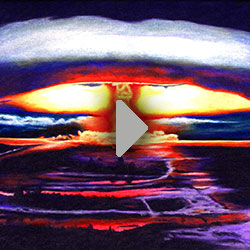
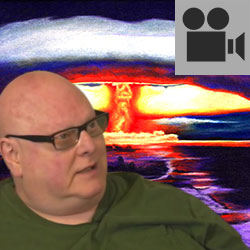
Changes to Rick gallery, home and about pages
Changed the icons for the video thumbnails. added a final slide to each
gallery with a link to the Rick Home page and to some of rick's cool
music links.
changed the welcome panel on the home page to a lighter grey to give me
more flexibility with text and link colors.
changed the text on the about page

diff --git a/rick/js/rick.js b/rick/js/rick.js
@@ -759,31 +759,28 @@ function twitterShare() {
     //Open the window.
 		window.open("https://twitter.com/intent/tweet?text=Please%20look%20at%20Joe%20Crosetto's%20art:&url=" + location.protocol+"//"+location.host+location.pathname + "&via=JosephCrosetto", "", "width=550,height=420,resizable=yes,left=" + leftPosition + ",top=" + topPosition + ",screenX=" + leftPosition + ",screenY=" + topPosition + ",toolbar=no,menubar=no,scrollbars=no,location=no,directories=no");
 }
-function pinterestShare() {
-	var nextImageID = "image" + curImageNum;
-	var nextImage = document.getElementById(nextImageID);
-	var nextImagePath = nextImage.src; 
-	var nip = nextImagePath.split(/[\/\\\.\_]/);
-	var appFolder = nip[nip.length - 5];	
-	var imgFolder = nip[nip.length - 4];
-	//var nextImageName = nip[nip.length - 3];
-	//var nextImageExt = nip[nip.length - 1];
-
-	var imageFileName;
-	if(nextImage.nodeName.toLowerCase() === "video") {
-	//	if (nextImageExt === "mp4" || nextImageExt === "MP4") {	
-		imageFileName = "http://" + location.hostname + "/" + appFolder + "/" + imgFolder + "/" + vidSizingPrefix + vidSizingName + "a" + "_sm" + "." + vidSizingExt;
-	} else {
-		imageFileName = nextImagePath;
-	}
-
-	
-	
-    var leftPosition, topPosition;
-    //Allow for borders.
-    leftPosition = (window.screen.width / 2) - 385;
-    //Allow for title and status bars.
-    topPosition = (window.screen.height / 2) - 220;
-    //Open the window.
-		window.open("http://pinterest.com/pin/create/button/?url=" + location.protocol+"//"+location.host+location.pathname + "&media=" + imageFileName + "&description=Please%20look%20at%20Joe%20Crosetto's%20art!", "", "width=550,height=420,resizable=yes,left=" + leftPosition + ",top=" + topPosition + ",screenX=" + leftPosition + ",screenY=" + topPosition + ",toolbar=no,menubar=no,scrollbars=no,location=no,directories=no");
-}
+//function pinterestShare() {
+//	var nextImageID = "image" + curImageNum;
+//	var nextImage = document.getElementById(nextImageID);
+//	var nextImagePath = nextImage.src; 
+//	var nip = nextImagePath.split(/[\/\\\.\_]/);
+//	var appFolder = nip[nip.length - 5];	
+//	var imgFolder = nip[nip.length - 4];
+//	
+//	var imageFileName;
+//	if(nextImage.nodeName.toLowerCase() === "video") {
+//		imageFileName = "http://" + location.hostname + "/" + appFolder + "/" + imgFolder + "/" + vidSizingPrefix + vidSizingName + "a" + "_sm" + "." + vidSizingExt;
+//	} else {
+//		imageFileName = nextImagePath;
+//	}
+//
+//	
+//	
+//    var leftPosition, topPosition;
+//    //Allow for borders.
+//    leftPosition = (window.screen.width / 2) - 385;
+//    //Allow for title and status bars.
+//    topPosition = (window.screen.height / 2) - 220;
+//    //Open the window.
+//		window.open("http://pinterest.com/pin/create/button/?url=" + location.protocol+"//"+location.host+location.pathname + "&media=" + imageFileName + "&description=Please%20look%20at%20Joe%20Crosetto's%20art!", "", "width=550,height=420,resizable=yes,left=" + leftPosition + ",top=" + topPosition + ",screenX=" + leftPosition + ",screenY=" + topPosition + ",toolbar=no,menubar=no,scrollbars=no,location=no,directories=no");
+//}

diff --git a/rick/css/rick.css b/rick/css/rick.css
@@ -133,10 +133,42 @@ cite {
 	text-align: center;
 	border-radius: 8px;	
 }
+/* detail text is the styles for the text loaded from the db that apears to the left or below the art image */
 .detail-text a {
-	color: white;
+	color: #ddd;
 }
 .detail-text {
+	margin-bottom: 1em;
+}
+.detail-text a:hover {
+	color: #0f6cdf;
+}
+/* a few special styles for the last page of ricks galleries */
+.rick-credit {
+	font-size: .9em;
+}
+.rick-credit ul {
+	list-style-type: square;
+}
+.rick-credit a {
+	padding: 0;
+}
+/*.rick-credit a:hover {
+	color: #0f6cdf;
+	background-color: rgba(255, 255, 255, 0.0);
+}*/
+/* detail-more-text is special styles for the last slide on a page that has links to social media, etc. */
+.detail-more-text a {
+	color: #0f6cdf;
+	padding: .5em;
+	border-radius: 5px;
+}
+.detail-more-text a:hover {
+	color: #eee;
+	background-color: #0f6cdf;
+}
+
+.detail-more-text {
 	margin-bottom: 1em;
 }
 .main-image .column {
@@ -215,14 +247,14 @@ div.row.divide-row {
 	margin-bottom: 0;
 }
 
-.social-icons-white {
+/*.social-icons-space {
 	margin-left: 2em;
-}
-.social-icons-white a {
+}*/
+/*.social-icons-white a {
 	color: white;
-}
-.social-icons-white a i {
-	padding: 0 1em 0 0 ;	
+}*/
+.social-icons-space a i {
+	padding: 0 .5em 0 .5em ;	
 }
 .social {
 	margin-top: .4em ;

diff --git a/css/aor.css b/css/aor.css
@@ -373,18 +373,37 @@ h5.rickhome_gallery_names {
 	color: #5e5e5e;
 }
 .aorhome-welcome {
+	background-color: #a7a99b;
+	background-image:url(../img/grey_background.jpg);
+
+	/*background-color: #7e827a;
+	background-image:url(../img/texture_grey.png);*/
+	padding: 0 1.5rem 0 1.5rem;
+/*	color: black;*/
+}
+.aorhome-welcome a {
+	color: #eee;
+/*	padding-left: 1em;
+	padding-right: 1em;
+	border-radius: 5px;*/
+}
+.aorhome-welcome a:hover {
+	/*background-color: #2461ad;*/
+	color: #0f6cdf;
+}
+.about-welcome {
 	background-color: #7e827a;
 	background-image:url(../img/texture_grey.png);
 	padding: 0 1.5rem 0 1.5rem;
 	color: black;
 }
-.aorhome-welcome a {
+.about-welcome a {
 	color: #ddd;
-	padding-left: 1em;
-	padding-right: 1em;
+	padding-left: .2em;
+	padding-right: .2em;
 	border-radius: 5px;
 }
-.aorhome-welcome a:hover {
+.about-welcome a:hover {
 	background-color: #2461ad;
 }
 

diff --git a/rick/body.php b/rick/body.php
@@ -125,6 +125,14 @@
 						</div>
 							
 							<?php } ?>
+							
+							
+					<!-- this is a final slide that thanks visitors and asks them to go to the rick home page -->
+						<?php $img_count ++; ?>
+						<div id="image-overlay-content<?php echo $img_count; ?>">
+						<img id="image<?php echo $img_count; ?>" data-interchange="[img/<?php echo FILENAME_PREFIX; ?><?php echo $img_count; ?>a_sm.jpg, small], [img/<?php echo FILENAME_PREFIX; ?><?php echo $img_count; ?>a_lg.jpg, medium]" alt="<?php echo ARTIST; ?>">
+						</div>	
+							
 						
 					</div>
 					<a href="#" id="zoom-minus"><i class="fa fa-search-minus fa-lg v-space-sm"></i></a>
@@ -242,17 +250,41 @@
 </div>
 <?php } ?>
 
-<!--
-<div id="text-overlay-content16" class="no-right-pad">
-					<h3 id="overlay-head16">Thanks for Visiting</h3>
-			    <div id="overlay-body16" class="detail-text"><a href="index.html"><i class="fa fa-th fa-lg"></i></a>&nbsp;&nbsp;See more of Rick's Art! <br>
+<?php $text_count ++; ?>
+<div id="text-overlay-content<?php echo $text_count; ?>" class="text-center">
+					<h5 id="overlay-head<?php echo $text_count; ?>" class="rick-font">But wait. There's more!</h5>
+			    <div id="overlay-body<?php echo $text_count; ?>" class="detail-text">
+					<div class="detail-more-text">
+
+					<p>Visit all seven of Rick's galleries. The next one is even better!</p>
+			    <h5><a href="index.php"><!--<i class="fa fa-th fa-lg"></i>--><span class="rick-font">Rick Therrio Galleries</span></a></h5> 
 					<i class="fa fa-share-alt fa-lg v-space-sm"></i>&nbsp;&nbsp;Share on social media<br>
-					<span class="social-icons-white">
+					<span class="social-icons-space">
 				<a class="fb-icon" href="#"><i class="fa fa-facebook fa-lg v-space-sm"></i></a>
 				<a class="twitter-icon" href="#"><i class="fa fa-twitter fa-lg v-space-sm"></i></a>
-				<a class="pinterest-icon" href="#"><i class="fa fa-pinterest-p fa-lg v-space-sm"></i></a> </span><br>		
-				</div>		
-</div> -->
+				<!--<a class="pinterest-icon" href="#"><i class="fa fa-pinterest-p fa-lg v-space-sm"></i></a>--> </span><br>
+				</div>
+				<div class=" detail-text rick-credit text-left">
+				Check out some of Rick's cool music projects:
+				<ul>
+					<li><a href="http://thefactoriesoflove.bandcamp.com/" target="_blank">Factories of Love</a></li>
+					<li><a href="http://kalejutandhismurdermen.bandcamp.com/" target="_blank">Kale Jut and the Murdermen</a></li>
+					<li><a href="https://www.facebook.com/hereinliestherub/?fref=ts" target="_blank">The Rub</a></li>
+				</ul>
+				Rick would like to thank some special people:
+				<ul>
+					<li>Dave Mueller at <a href="https://www.facebook.com/search/184404196644/local_search?surface=tyah" target="_blank">Paul Henry Gallery</a></li>
+					<li>Tony Lipka at <a href="http://greatcustomframing.com/" target="_blank">The Great Frame Up</a></li>
+					<li>Barbara Laing at Painted Light Photography & Framing Gallery</li>
+				</ul>	
+
+				</div>
+			</div>	
+</div>
+
+
+
+
 
       </div>
 		</div>
@@ -303,6 +335,12 @@
 <a href="#" class="tb" id="tb<?php echo $img_count; ?>"><img class="not-viewed" src="img/<?php echo FILENAME_PREFIX; ?><?php echo $img_count; ?>a_tb.jpg"></a>
 </div>
 <?php } ?>
+
+<!-- thank You Slide -->
+<?php $img_count ++; ?>
+<div class="column gallery">
+<a href="#" class="tb" id="tb<?php echo $img_count; ?>"><img class="not-viewed" src="img/<?php echo FILENAME_PREFIX; ?><?php echo $img_count; ?>a_tb.jpg"></a>
+</div>
 
 			</div> <!-- end of thumbnail gallery. Note, start of brown section below inside-->
 

diff --git a/about_body.php b/about_body.php
@@ -74,7 +74,7 @@
 			
 			<div class="row margin-zero main-image-more contact-main">
 	<div class="contact small-offset-1 small-10 end column">
-<h3 class="aor-font">About Us</h3>
+<h3 class="aor-font">About Us - Then</h3>
 <p><img src="img/about_aor.jpg" width="450" height="266" class="float-right">Lynn True and Joe Crosetto started the original Art-O-Rama Gallery 1989. It was located in an old bakery at 3039 Irving Park Rd in Chicago. We wanted to shake up the art establishment and surprisingly, we did. We invited our young artist friends to show their work. Most of us were all effectively shut out from the established River North galleries. We built walls, hung clip-on lights and made quite a presentable gallery space. Openings nights were packed with people and artwork. Word spread. A group of artists coalesced around the gallery and have become lifelong friends and collaborators.<br>&nbsp;<br>
 
 The original Art-O-Rama was like a super nova. It burnt bright but for only about 2 years. But don't fret because now we have opened a new, online version of the gallery, inspired by the same passion and craziness! Enjoy!</p><br>
@@ -171,14 +171,12 @@ The original Art-O-Rama was like a super nova. It burnt bright but for only abou
 	</div>
 
 			<div class="row">
-				<div class="aorhome-welcome small-12 columns">
+				<div class="about-welcome small-12 columns">
 					<p class="show-for-medium"><br>&nbsp;<br>&nbsp;<br></p>
-					<h5 class="aor-font">Welcome!</h5>
-					<p>Art-O-Rama gallery is a cooperative, online behemoth promoting the world’s greatest artists.<br>&nbsp;<br> 
-		
-		This is the place to buy stupendous, one-of-a-kind art at a fair price.<br>&nbsp;<br>
-		
-		What makes an artist tick? Watch our video interviews and find out!<br>&nbsp;<br>&nbsp;<br>
+					<h5 class="aor-font">Now</h5>
+					<p>Art-O-Rama gallery is an online gallery featuring the world’s greatest artists.<br>&nbsp;<br>
+					
+					Visiting a gallery or museum should be transcendental experience where the visitor gets swept up in the passion of the artist. Can you have a similar experience on a website? This is our goal. Please keep visiting and watch how we evolve. And <a href="contact.php">please share</a> your thoughts and ideas with us.<br>&nbsp;<br>&nbsp;<br>
 					</p>
 				</div>
 			

diff --git a/aorhome_body.php b/aorhome_body.php
@@ -149,7 +149,7 @@
                 <polygon points="0,0,1440,115,0,115,0,0"></polygon>
             </clippath>
         	</g>
-        	<image   clip-path="url(#shape-divide4)" width="1440" height="764" xlink:href="img/texture_grey.png" preserveAspectRatio="xMidYMin slice"></image>
+        	<image   clip-path="url(#shape-divide4)" width="1440" height="764" xlink:href="img/grey_background.jpg" preserveAspectRatio="xMidYMin slice"></image>
     		</svg>
 			</div>
 	</div>
@@ -159,12 +159,12 @@
 					<p class="show-for-medium"><br>&nbsp;<br>&nbsp;<br></p>
 					<h5 class="aor-font">Welcome!</h5>
 					<p>I hope you are stoked to see the first exhibit at Art-O-Rama online gallery. You will laugh. You will cry. You will shake your head in disbelief at Rick’s stunning work.<br>
-<a href="rick/index.php">Rick Terrio – Existence is Absurd</a><br>&nbsp;<br>
+<a class="rick-font" href="rick/index.php">Rick Terrio – Existence is Absurd</a><br>&nbsp;<br>
 
-Art-O-Rama was an edgy gallery in the 90s and is now reborn as an online behemoth promoting the world’s greatest artists. This is the place to buy stupendous, one-of-a-kind art at a fair price. And more!
+Art-O-Rama was an edgy gallery in the 90s and is now reborn as an online behemoth promoting the world’s greatest artists. This is the place to buy stupendous, one-of-a-kind art. And more!
 <br>&nbsp;<br>
 		
-		What makes an artist tick? Watch our video interviews and find out! <br><a href="rick/worlds.php">Rick Therrio Interview</a> <br>&nbsp;<br>&nbsp;<br>
+		What makes an artist tick? Watch our video interviews and find out! <br><a class="rick-font" href="rick/worlds.php">Rick Therrio Interview</a> <br>&nbsp;<br>&nbsp;<br>
 					</p>
 				</div>
 			
